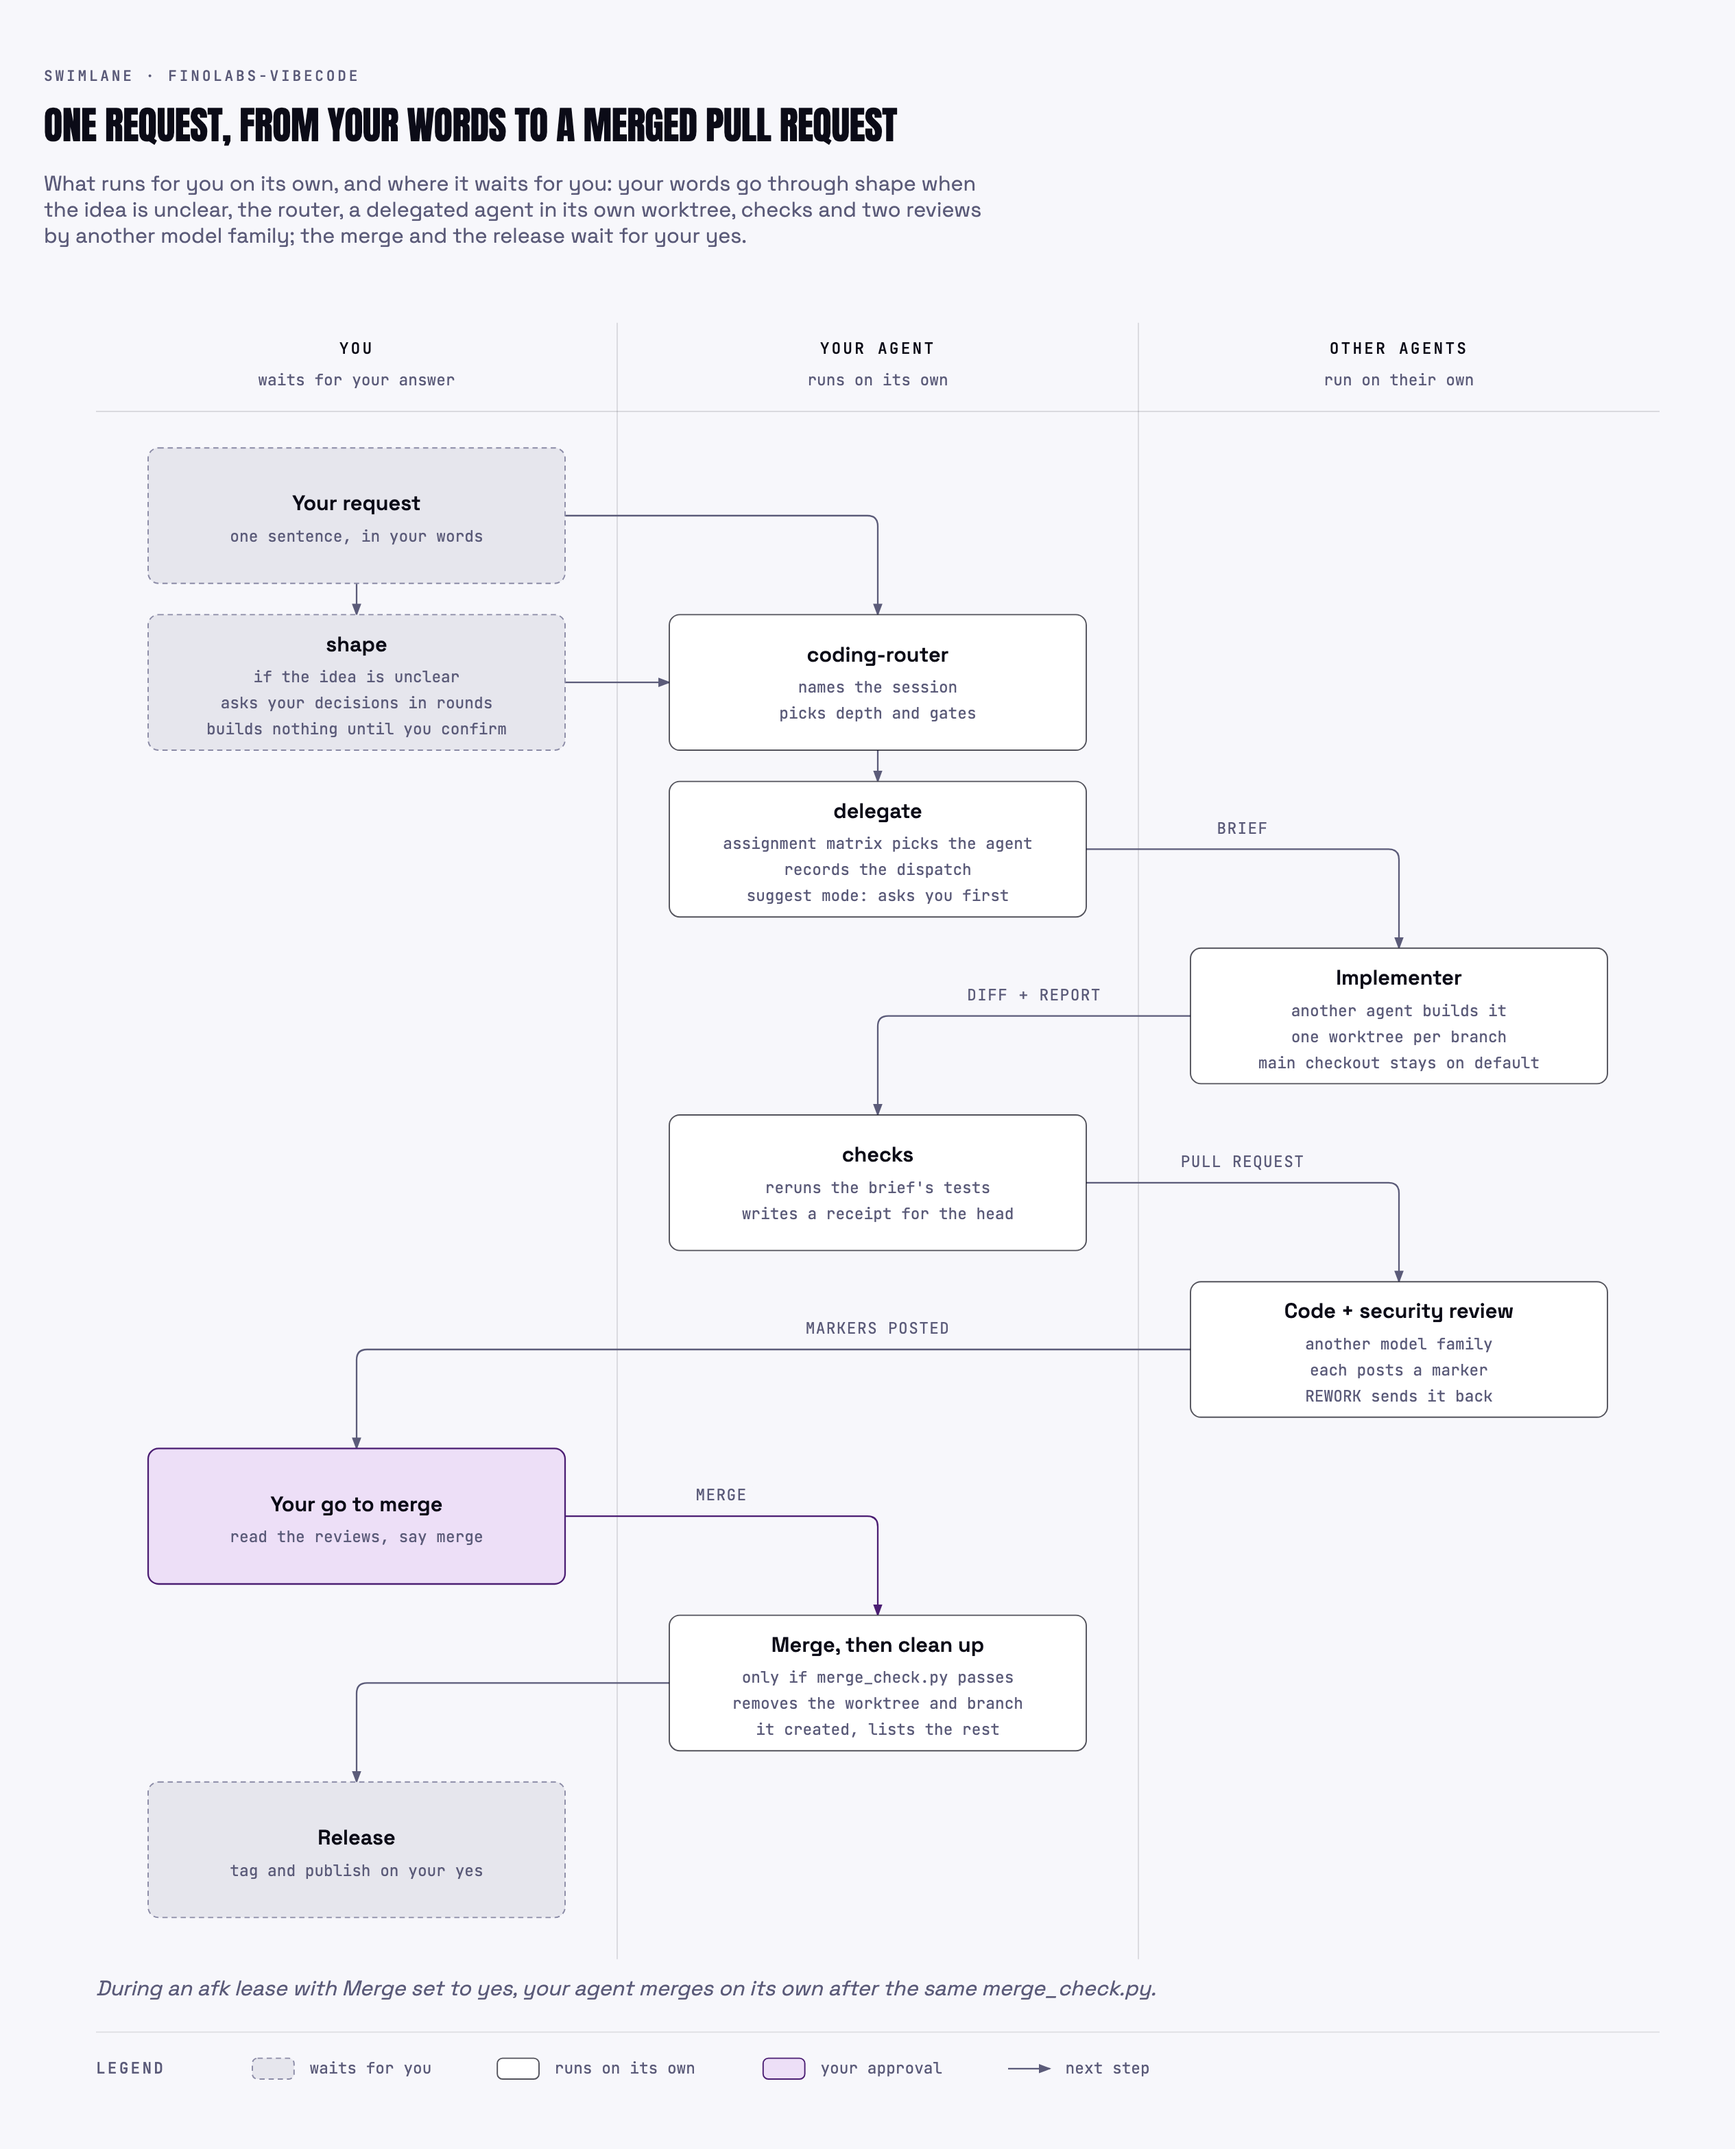
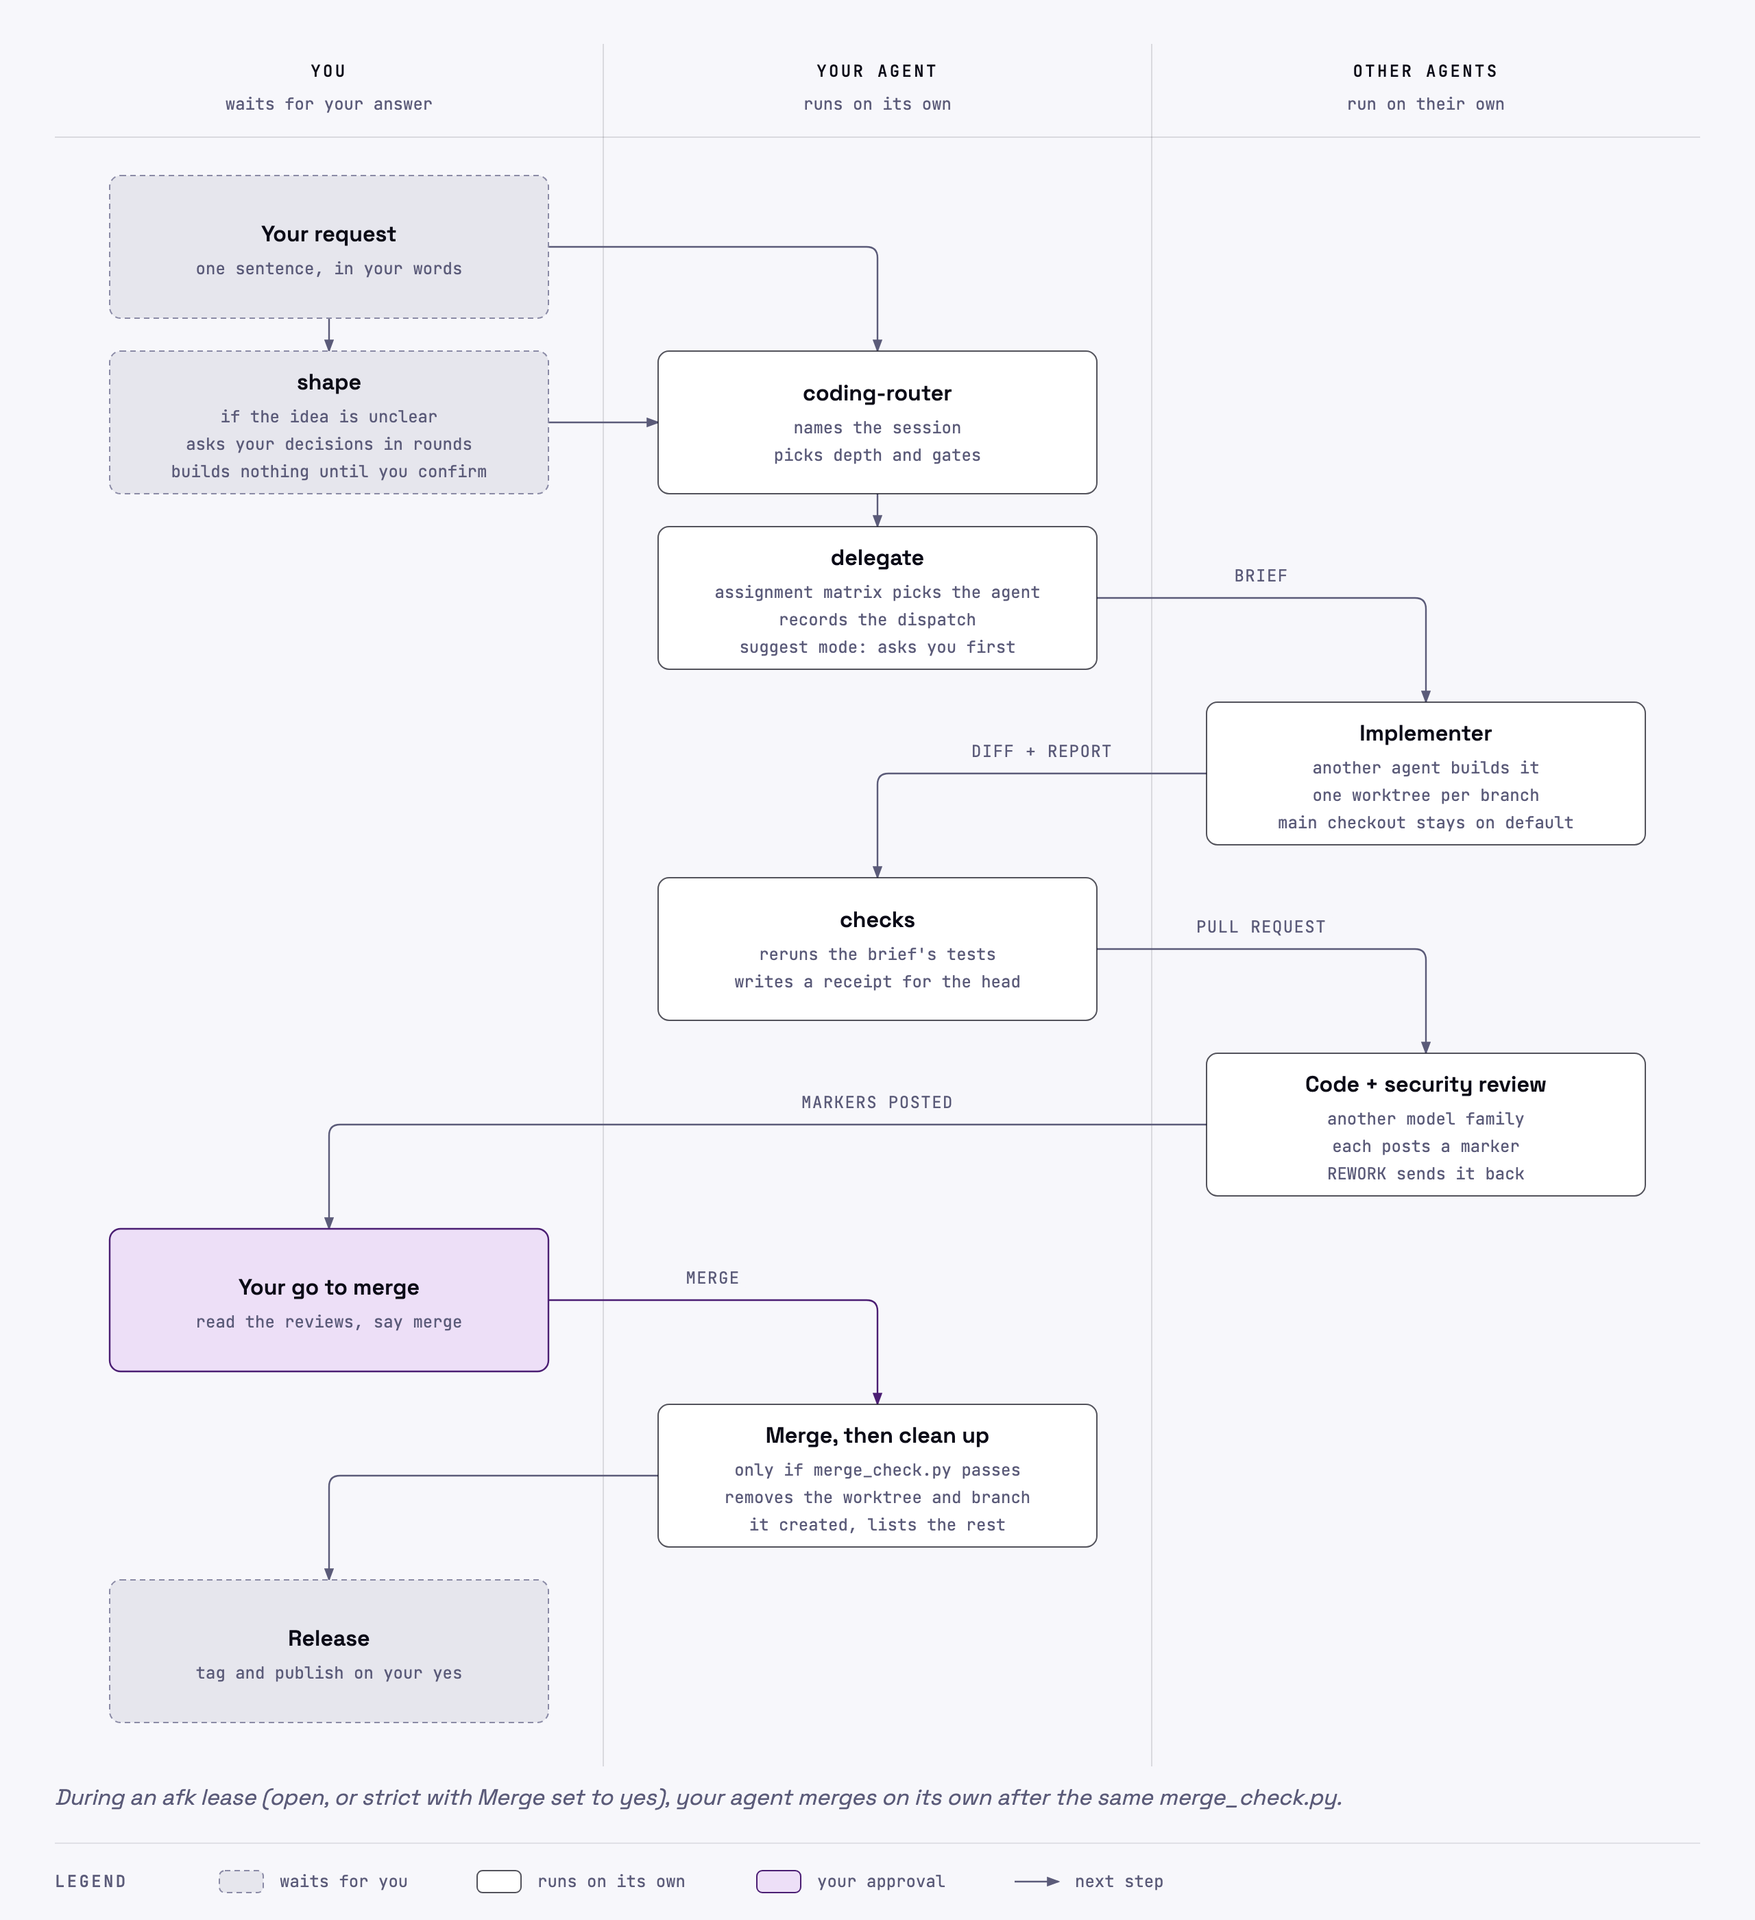
Say an open lease merges on its own in the request-to-merge diagram

diff --git a/docs/diagrams/skills-architecture-light.html b/docs/diagrams/skills-architecture-light.html
@@ -24,7 +24,7 @@ svg { width: 100%; min-width: 900px; display: block; }
 <p class="sub">Setup is one skill with Quick, Advanced and subcommands. The hook points the agent at the router; the router hands work to delegation (parallel pools), gates, and session and git skills; the commands you type keep the machine's config and logs current, start an away lease or drain work before a restart.</p>
 <svg viewBox="0 0 1280 1152" xmlns="http://www.w3.org/2000/svg" role="img" aria-labelledby="skills-architecture-light-title skills-architecture-light-desc">
 <title id="skills-architecture-light-title">How the finolabs-vibecode skills work together</title>
-<desc id="skills-architecture-light-desc">Architecture of the skill set for release 0.2.5: a session-start hook reminds the agent to use the coding router, which hands work to delegation (route_pick over the assignment matrix, parallel pools, log_scan, the advisor's choose mode), gates (verify_claim with judge, review_route, post_review, merge_check), and session and git skills (context snapshots, navigator). The commands you type manage configuration and logs on the user machine: setup (with the assignment matrix in add delegation), status, restore-point, help (alias ask), update, afk (alias brb, loading afk) for the away lease and its decision ladder, and pause (alias gtg) to drain work before a restart.</desc>
+<desc id="skills-architecture-light-desc">Architecture of the skill set for release 0.3.2: a session-start hook reminds the agent to use the coding router, which hands work to delegation (route_pick over the assignment matrix, parallel pools, log_scan, the advisor's choose mode), gates (verify_claim with judge, review_route, post_review, merge_check), and session and git skills (context snapshots, navigator). The commands you type manage configuration and logs on the user machine: setup (with the assignment matrix in add delegation), status, restore-point, help (alias ask), update, afk (alias brb, loading afk) for the away lease and its decision ladder, and pause (alias gtg) to drain work before a restart.</desc>
 <defs>
 <marker id="arrow" markerWidth="8" markerHeight="6" refX="7" refY="3" orient="auto"><polygon points="0 0, 8 3, 0 6" fill="#5B5B79"/></marker>
 <marker id="arrow-link" markerWidth="8" markerHeight="6" refX="7" refY="3" orient="auto"><polygon points="0 0, 8 3, 0 6" fill="#14627A"/></marker>

diff --git a/docs/diagrams/skills-architecture-dark.html b/docs/diagrams/skills-architecture-dark.html
@@ -24,7 +24,7 @@ svg { width: 100%; min-width: 900px; display: block; }
 <p class="sub">Setup is one skill with Quick, Advanced and subcommands. The hook points the agent at the router; the router hands work to delegation (parallel pools), gates, and session and git skills; the commands you type keep the machine's config and logs current, start an away lease or drain work before a restart.</p>
 <svg viewBox="0 0 1280 1152" xmlns="http://www.w3.org/2000/svg" role="img" aria-labelledby="skills-architecture-dark-title skills-architecture-dark-desc">
 <title id="skills-architecture-dark-title">How the finolabs-vibecode skills work together</title>
-<desc id="skills-architecture-dark-desc">Architecture of the skill set for release 0.2.5: a session-start hook reminds the agent to use the coding router, which hands work to delegation (route_pick over the assignment matrix, parallel pools, log_scan, the advisor's choose mode), gates (verify_claim with judge, review_route, post_review, merge_check), and session and git skills (context snapshots, navigator). The commands you type manage configuration and logs on the user machine: setup (with the assignment matrix in add delegation), status, restore-point, help (alias ask), update, afk (alias brb, loading afk) for the away lease and its decision ladder, and pause (alias gtg) to drain work before a restart.</desc>
+<desc id="skills-architecture-dark-desc">Architecture of the skill set for release 0.3.2: a session-start hook reminds the agent to use the coding router, which hands work to delegation (route_pick over the assignment matrix, parallel pools, log_scan, the advisor's choose mode), gates (verify_claim with judge, review_route, post_review, merge_check), and session and git skills (context snapshots, navigator). The commands you type manage configuration and logs on the user machine: setup (with the assignment matrix in add delegation), status, restore-point, help (alias ask), update, afk (alias brb, loading afk) for the away lease and its decision ladder, and pause (alias gtg) to drain work before a restart.</desc>
 <defs>
 <marker id="arrow" markerWidth="8" markerHeight="6" refX="7" refY="3" orient="auto"><polygon points="0 0, 8 3, 0 6" fill="#BCBCD0"/></marker>
 <marker id="arrow-link" markerWidth="8" markerHeight="6" refX="7" refY="3" orient="auto"><polygon points="0 0, 8 3, 0 6" fill="#87D3E1"/></marker>

diff --git a/docs/diagrams/request-to-merge-dark.html b/docs/diagrams/request-to-merge-dark.html
@@ -116,7 +116,7 @@ svg{width:100%;min-width:900px;display:block}
 <text x="240" y="1200" fill="#FFFFFF" font-size="16" font-weight="600" font-family="'Space Grotesk', system-ui, sans-serif" text-anchor="middle">Release</text>
 <text x="240" y="1224" fill="#BCBCD0" font-size="12" font-family="'JetBrains Mono', ui-monospace, monospace" text-anchor="middle">tag and publish on your yes</text>
 </g>
-<text x="40" y="1316" fill="#BCBCD0" font-size="16" font-weight="400" font-family="'Space Grotesk', system-ui, sans-serif" text-anchor="start" font-style="italic">During an afk lease with Merge set to yes, your agent merges on its own after the same merge_check.py.</text>
+<text x="40" y="1316" fill="#BCBCD0" font-size="16" font-weight="400" font-family="'Space Grotesk', system-ui, sans-serif" text-anchor="start" font-style="italic">During an afk lease (open, or strict with Merge set to yes), your agent merges on its own after the same merge_check.py.</text>
 <line x1="40" y1="1344" x2="1240" y2="1344" stroke="rgba(255,255,255,0.12)" stroke-width="0.8"/>
 <text x="40" y="1376" fill="#BCBCD0" font-size="12" font-weight="500" font-family="'JetBrains Mono', ui-monospace, monospace" letter-spacing="0.14em" text-anchor="start">LEGEND</text>
 <rect x="160" y="1364" width="32" height="16" rx="4" fill="rgba(188,188,208,0.10)" stroke="#8B8BA6" stroke-width="1" stroke-dasharray="4,3"/>

diff --git a/docs/diagrams/request-to-merge-light.html b/docs/diagrams/request-to-merge-light.html
@@ -116,7 +116,7 @@ svg{width:100%;min-width:900px;display:block}
 <text x="240" y="1200" fill="#0B0B17" font-size="16" font-weight="600" font-family="'Space Grotesk', system-ui, sans-serif" text-anchor="middle">Release</text>
 <text x="240" y="1224" fill="#5B5B79" font-size="12" font-family="'JetBrains Mono', ui-monospace, monospace" text-anchor="middle">tag and publish on your yes</text>
 </g>
-<text x="40" y="1316" fill="#5B5B79" font-size="16" font-weight="400" font-family="'Space Grotesk', system-ui, sans-serif" text-anchor="start" font-style="italic">During an afk lease with Merge set to yes, your agent merges on its own after the same merge_check.py.</text>
+<text x="40" y="1316" fill="#5B5B79" font-size="16" font-weight="400" font-family="'Space Grotesk', system-ui, sans-serif" text-anchor="start" font-style="italic">During an afk lease (open, or strict with Merge set to yes), your agent merges on its own after the same merge_check.py.</text>
 <line x1="40" y1="1344" x2="1240" y2="1344" stroke="rgba(11,11,23,0.12)" stroke-width="0.8"/>
 <text x="40" y="1376" fill="#5B5B79" font-size="12" font-weight="500" font-family="'JetBrains Mono', ui-monospace, monospace" letter-spacing="0.14em" text-anchor="start">LEGEND</text>
 <rect x="160" y="1364" width="32" height="16" rx="4" fill="rgba(91,91,121,0.10)" stroke="#8B8BA6" stroke-width="1" stroke-dasharray="4,3"/>

diff --git a/CHANGELOG.md b/CHANGELOG.md
@@ -25,7 +25,7 @@ All notable changes to this plugin are documented here. The format follows [Keep
 ### Changed
 
 - Session titles follow a coordinator's work (owner request, 17/11/2026): the session-start rule and `tidy` "Titles" rename the session when a spec, story or large pull request it ran is done, and the merge notice after `gh pr merge` reminds the agent to; the help pages for `tidy`, `setup`, `review-gate`, troubleshooting and `/setup check` describe the 0.3.2 changes; `CLAUDE.md` "Versions" lists the docs every user-facing pull request updates.
-- The README diagrams are re-rendered from their 0.3.2 sources (task lifecycle, session health, skills architecture, delegation sequence, afk mechanism), each as the diagram alone at 2x like the others; the afk mechanism names the afk check hook on Claude Code.
+- The README diagrams are re-rendered from their 0.3.2 sources (task lifecycle, session health, skills architecture, delegation sequence, afk mechanism, request to merge), each as the diagram alone at 2x like the others; the afk mechanism names the afk check hook on Claude Code, and request to merge says an open lease merges on its own as a strict lease with Merge yes does.
 
 - `/setup add compaction` proposes an auto-compact level instead of prescribing none (owner decision, 17/11/2026): before the token question it shows an advisory value by session kind with its reason, never preselected (about 300000 to 500000 for a coordinator on a 1M-window model, later or a fresh session per story for single-task work, about 70% to 80% of a smaller window), then asks where it applies, user scope or, on Claude Code, this repository only. The beginner path and Quick setup now ask the threshold with its own question and say that without one Claude Code's `tidy` nudge stays silent.
 - Breaking: afk gains two modes (owner decisions, 16/11/2026; `docs/specs/afk-autonomy.md`). `open`, the default, lets every command, path, category and merge run under a live lease except the credential floor: `afk.py check` answers `floor` (Tier 3, never approvable through Decide) for a request that changes a credential or reads, prints, copies or sends a secret or key, after splitting operators, dropping wrapper prefixes and reading inline code. Two guards are on by default in `open`: instructions from third-party content never grant actions (advisory), and `check` answers `guarded` for a commit on the default branch, a push to it, and every force, delete and mirror push. `- Default branch: open` and `- Third-party instructions: open` switch them off; a repository's approved `mode`, `default-branch` and `third-party-instructions` keys win there. `- Mode: strict` keeps every earlier list, category, limit and gate. A lease set up before this change, with no `Mode` line, is now `open`; add `- Mode: strict` to `## afk` to keep the earlier rules. In `open` the `Merge` answer is ignored and optional, and `/setup add afk` (`afk_setup.py preview --mode`) writes the mode first.
